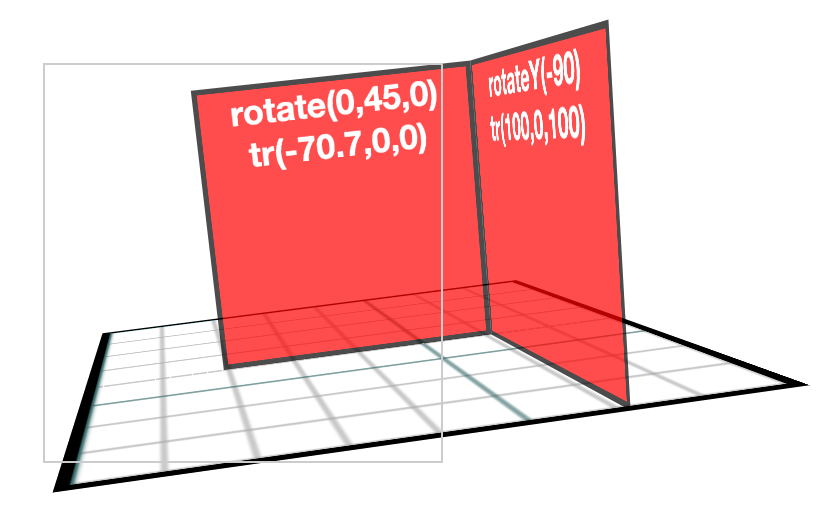
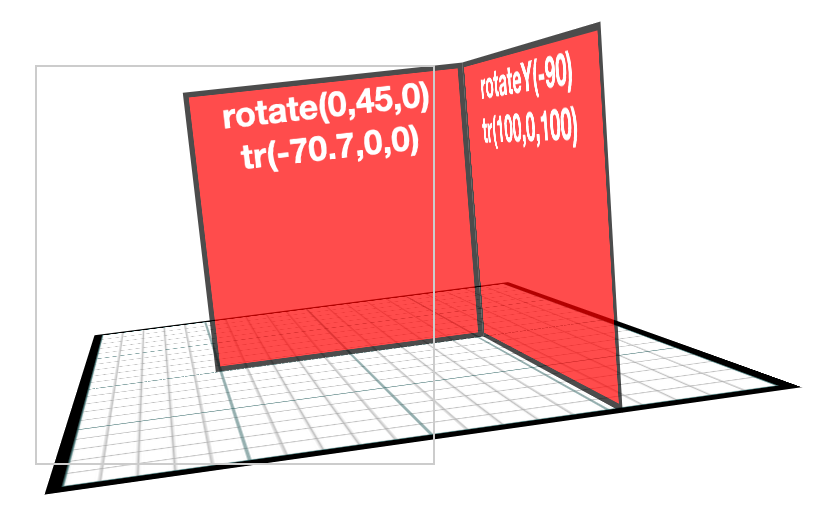
fixes

Changed region(s): [[0.031, 0.0295, 0.9618, 0.9744]]

diff --git a/js/ex2.js b/js/ex2.js
@@ -71,7 +71,7 @@ if (s3.camera) {
 // We also tilt the camera, to test that.
 var cam4 = new sg.Camera(25);
 cam4.position = new sg.Vector(0, 0, 200);
-cam4.rotation = sg.Matrix.makeRotationFromEuler(new sg.Vector(0, 40, 0));
+cam4.rotation = sg.Matrix.makeRotationFromEuler(new sg.Vector(-10, 40, 0));
 s4.world.add(cam4);
 // we move by -70.7 because after rotation by 45 degrees that's about what we have to move
 // to get the edge into the center (hint: cos(45 degrees) = ~0.707)
@@ -89,6 +89,14 @@ var n41 = new sg.HTMLDivThing(p41);
 n41.rotation = sg.Matrix.makeRotationFromEuler(new sg.Vector(0, -90, 0));
 n41.position = new sg.Vector(100, 0, 100);
 n4.add(n41);
+var p4g = document.createElement("div");
+p4g.className = "panel image";
+p4g.style.backgroundImage = "url('./img/graph-paper.png')";
+var n4g = new sg.HTMLDivThing(p4g);
+n4g.rotation = sg.Matrix.makeRotationFromEuler(new sg.Vector(-90, 0, 0));
+n4g.position = new sg.Vector(0, -100, 0);
+n4g.scale = new sg.Vector(2, 2, 2);
+n4.add(n4g);
 s4.render();
 if (s4.camera) {
     var m = s4.camera.worldInverseTransform.multiply(n41.worldTransform);

diff --git a/src/ex2.ts b/src/ex2.ts
@@ -88,7 +88,7 @@ if (s3.camera) {
 // We also tilt the camera, to test that.
 var cam4 = new sg.Camera(25);
 cam4.position = new sg.Vector(0,0,200); 
-cam4.rotation = sg.Matrix.makeRotationFromEuler(new sg.Vector(0,40,0));
+cam4.rotation = sg.Matrix.makeRotationFromEuler(new sg.Vector(-10,40,0));
 s4.world.add(cam4);
 
 // we move by -70.7 because after rotation by 45 degrees that's about what we have to move
@@ -108,6 +108,15 @@ var n41 = new sg.HTMLDivThing(p41);
 n41.rotation = sg.Matrix.makeRotationFromEuler(new sg.Vector(0,-90,0)); 
 n41.position = new sg.Vector(100,0,100);
 n4.add(n41);
+
+var p4g = document.createElement("div");
+p4g.className = "panel image";
+p4g.style.backgroundImage = "url('./img/graph-paper.png')"; 
+var n4g = new sg.HTMLDivThing(p4g);
+n4g.rotation = sg.Matrix.makeRotationFromEuler(new sg.Vector(-90,0,0)); 
+n4g.position = new sg.Vector(0,-100,0);
+n4g.scale = new sg.Vector(2,2,2);
+n4.add(n4g); 
 
 s4.render();
 

diff --git a/src/ex1.ts b/src/ex1.ts
@@ -73,7 +73,6 @@ cam4.position = new sg.Vector(0,0,200);
 cam4.rotation = sg.Matrix.makeRotationFromEuler(new sg.Vector(-10,40,0));
 s4.world.add(cam4);
 
-
 // we move by -70.7 because after rotation by 45 degrees that's about what we have to move
 // to get the edge into the center (hint: cos(45 degrees) = ~0.707)
 var p4 = document.createElement("div");
@@ -93,11 +92,8 @@ n41.position = new sg.Vector(100,0,100);
 n4.add(n41);
 
 var p4g = document.createElement("div");
-p4g.className = "panel";
+p4g.className = "panel image";
 p4g.style.backgroundImage = "url('./img/graph-paper.png')"; 
-p4g.style.backgroundColor = "transparent";
-p4g.style.opacity = "1.0";
-
 var n4g = new sg.HTMLDivThing(p4g);
 n4g.rotation = sg.Matrix.makeRotationFromEuler(new sg.Vector(-90,0,0)); 
 n4g.position = new sg.Vector(0,-100,0);

diff --git a/js/ex1.js b/js/ex1.js
@@ -75,10 +75,8 @@ n41.rotation = sg.Matrix.makeRotationFromEuler(new sg.Vector(0, -90, 0));
 n41.position = new sg.Vector(100, 0, 100);
 n4.add(n41);
 var p4g = document.createElement("div");
-p4g.className = "panel";
+p4g.className = "panel image";
 p4g.style.backgroundImage = "url('./img/graph-paper.png')";
-p4g.style.backgroundColor = "transparent";
-p4g.style.opacity = "1.0";
 var n4g = new sg.HTMLDivThing(p4g);
 n4g.rotation = sg.Matrix.makeRotationFromEuler(new sg.Vector(-90, 0, 0));
 n4g.position = new sg.Vector(0, -100, 0);

diff --git a/js/SG.js b/js/SG.js
@@ -265,7 +265,7 @@ export class Scene {
         this.camera = null;
         // update the matrices
         this.world.traverse(updateMatricies);
-        // WARNING:  HACK
+        // WARNING:  HACK I needed here
         // Typescript does not notice that traverse() is calling updateMatricies and that (therefore) this.camera might get
         // set.  So it narrows the type of this.camera to "null", this causes the next "if" to narrow "this.camera" to "never" 
         // (since that condition will never succeed).  

diff --git a/src/SG.ts b/src/SG.ts
@@ -354,7 +354,7 @@ export class Scene {
         // update the matrices
         this.world.traverse(updateMatricies);
 
-        // WARNING:  HACK
+        // WARNING:  HACK I needed here
         // Typescript does not notice that traverse() is calling updateMatricies and that (therefore) this.camera might get
         // set.  So it narrows the type of this.camera to "null", this causes the next "if" to narrow "this.camera" to "never" 
         // (since that condition will never succeed).  

diff --git a/ex1.html b/ex1.html
@@ -42,6 +42,11 @@
               transform-style: preserve-3d;      
     }
 
+    .image {
+      background-color: transparent;
+      background-size: cover;
+      opacity: 1.0;
+    }
   </style>
 
 </head>

diff --git a/ex2.html b/ex2.html
@@ -42,6 +42,11 @@
               transform-style: preserve-3d;      
     }
 
+    .image {
+      background-color: transparent;
+      background-size: cover;
+      opacity: 1.0;
+    }
   </style>
 
 </head>

diff --git a/README.md b/README.md
@@ -5,6 +5,10 @@ using CSS3 transforms, and then create an animated story using a scene of DOM el
 
 ## Due: Thursday Sept 12th, 11:59pm
 
+## Author
+
+**Name:  PLEASE PUT YOUR NAME HERE**
+
 ## Overview 
 
 The assignment requires you to do three things:
